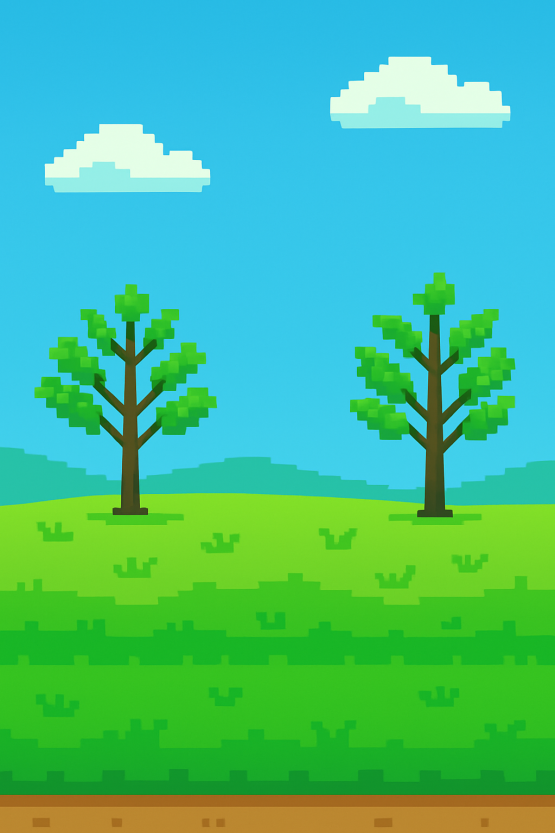
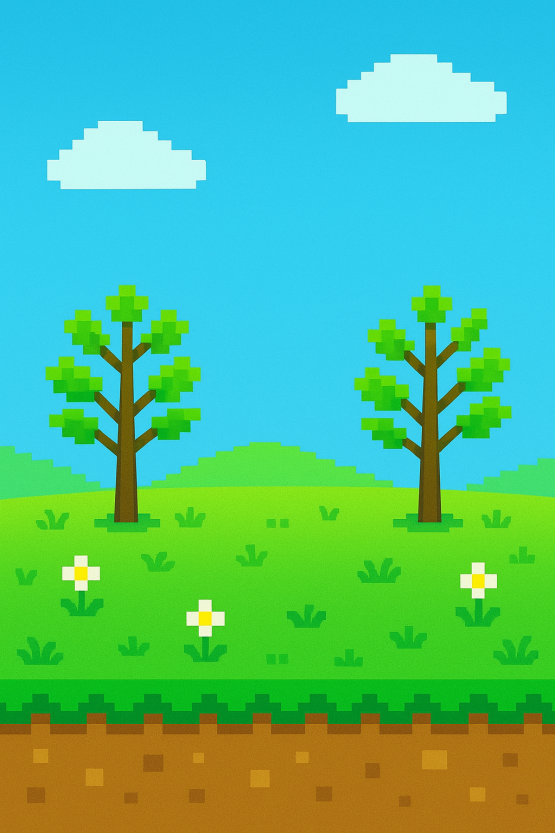
nova zem

diff --git a/docs/script.js b/docs/script.js
@@ -23,7 +23,6 @@ let currentSeason = seasons[currentSeasonIndex];
 const img = new Image();
 img.src = "https://i.ibb.co/Q9yv5Jk/flappy-bird-set.png";
 const groundImg = new Image();
-groundImg.src = "obrazky/base.png";
 const heartImg = new Image();
 heartImg.src = "obrazky/image.png";
 
@@ -61,7 +60,7 @@ let bestScores = {
     medium: 0,
     hard: 0
 };
-const groundHeight = 50;
+const groundHeight = 130; // Nastavenie výšky zeme na 130px
 let groundX = 0;
 
 let difficulty = "medium";
@@ -143,16 +142,8 @@ function spawnHeart() {
 }
 
 function checkCollision() {
-    const pipeHitbox = {
-        x: bird.hitbox.x - bird.radius,
-        y: bird.hitbox.y - bird.radius,
-        width: bird.hitbox.width + bird.radius * 2,
-        height: bird.hitbox.height + bird.radius * 2
-    };
-
     if (bird.invulnerable) {
-        const hitGround = bird.y + bird.radius >= canvas.height - groundHeight;
-        if (hitGround) {
+        if (bird.y + bird.radius >= canvas.height - groundHeight) {
             if (difficulty === "easy" && bird.lives > 1) {
                 bird.lives--;
                 bird.velocity = -Math.abs(bird.velocity) * 0.3;
